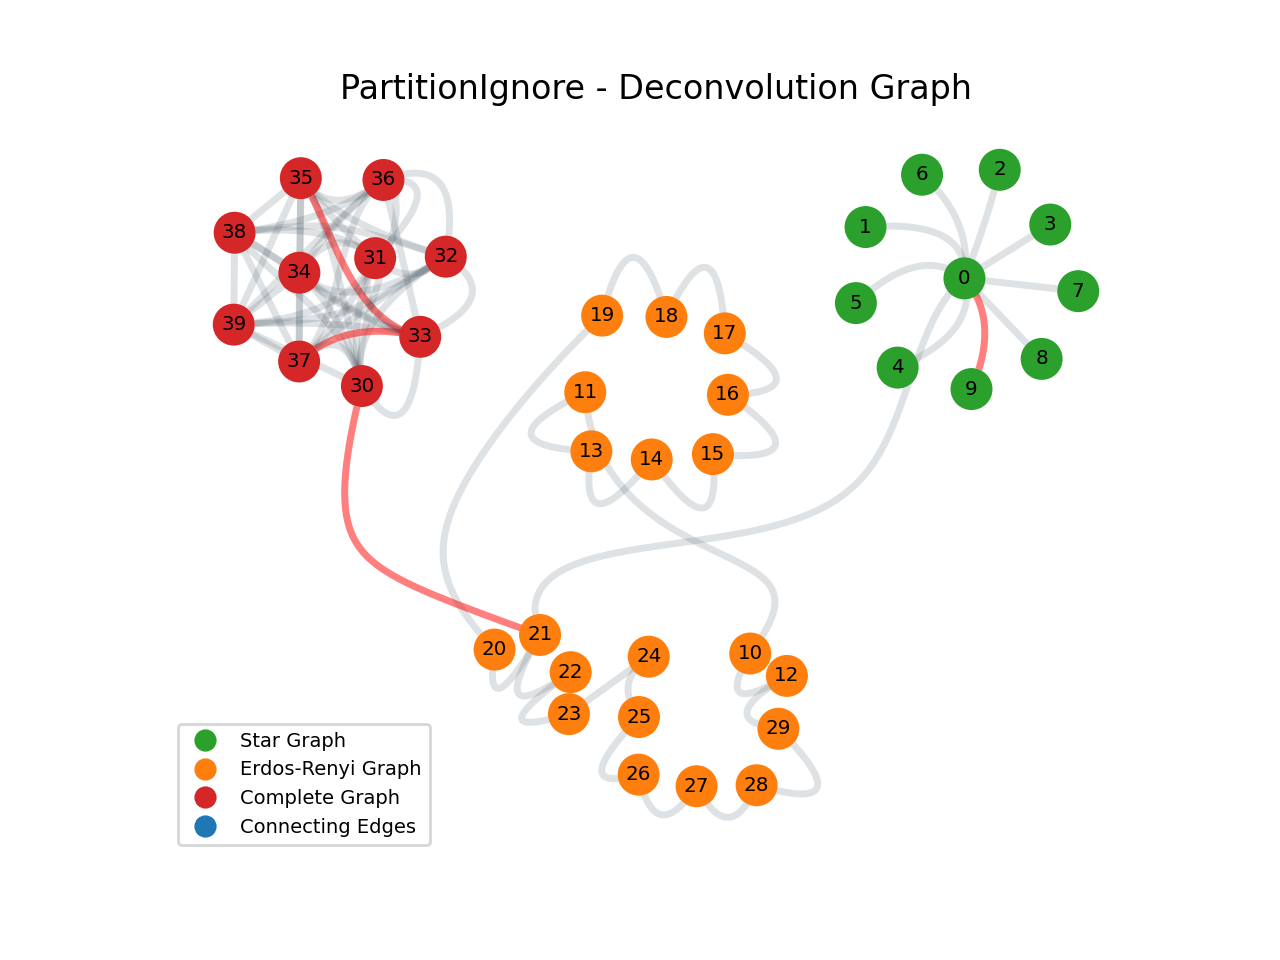
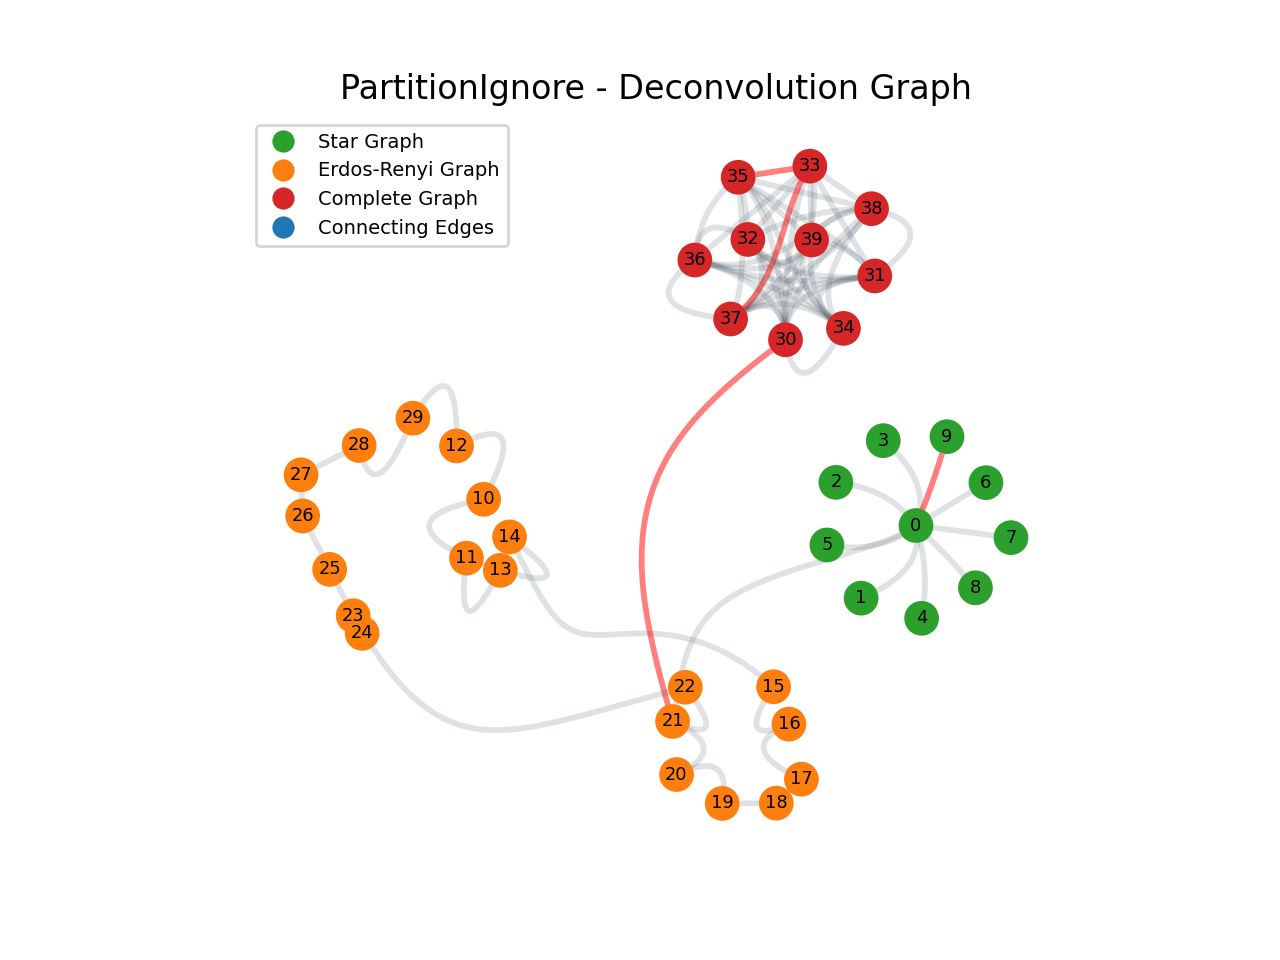
Adjusted difference calculation

Changed region(s): [[0.125, 0.125, 0.875, 0.875]]

diff --git a/test_deconvolve.py b/test_deconvolve.py
@@ -155,6 +155,7 @@ def convert_csv_to_graph(filename, randomize=False):
 
     graphs = {
         'S-': nx.from_numpy_array(original_graph[:10,:10]),
+        #'S-': nx.star_graph(21),
         'ER-': nx.from_numpy_array(original_graph[10:30, 10:30]),
         'C-': nx.from_numpy_array(original_graph[30:,30:]),
     }
@@ -169,7 +170,9 @@ def convert_csv_to_graph(filename, randomize=False):
     X.add_edges_from(edges_to_add)
 
     node_list = list(X.nodes)
+    print(f'Node count: {len(node_list)}')
     edge_list = [e for e in X.edges]
+    print(f'Edge count: {len(edge_list)}')
     edge_mapping = {v: i for i, v in enumerate(node_list)}
 
     prefix_color_mapping = {}
@@ -408,7 +411,7 @@ graphs_mapping = {
 # #289722
 
 graphs = {
-    'S-': nx.star_graph(9),
+    'S-': nx.star_graph(21),
     'ER-': nx.gnm_random_graph(20, 20, 289722),
     'C-': nx.complete_graph(10),
 }
@@ -443,7 +446,7 @@ randomize_nodes = False
 #     )
 X, node_color, edge_color, prefix_color_mapping = convert_csv_to_graph('testgraph.csv', False)
 
-auxiliary_cutoff = 16
+auxiliary_cutoff = 14
 if True:
 
     for shape in block_sizes:
